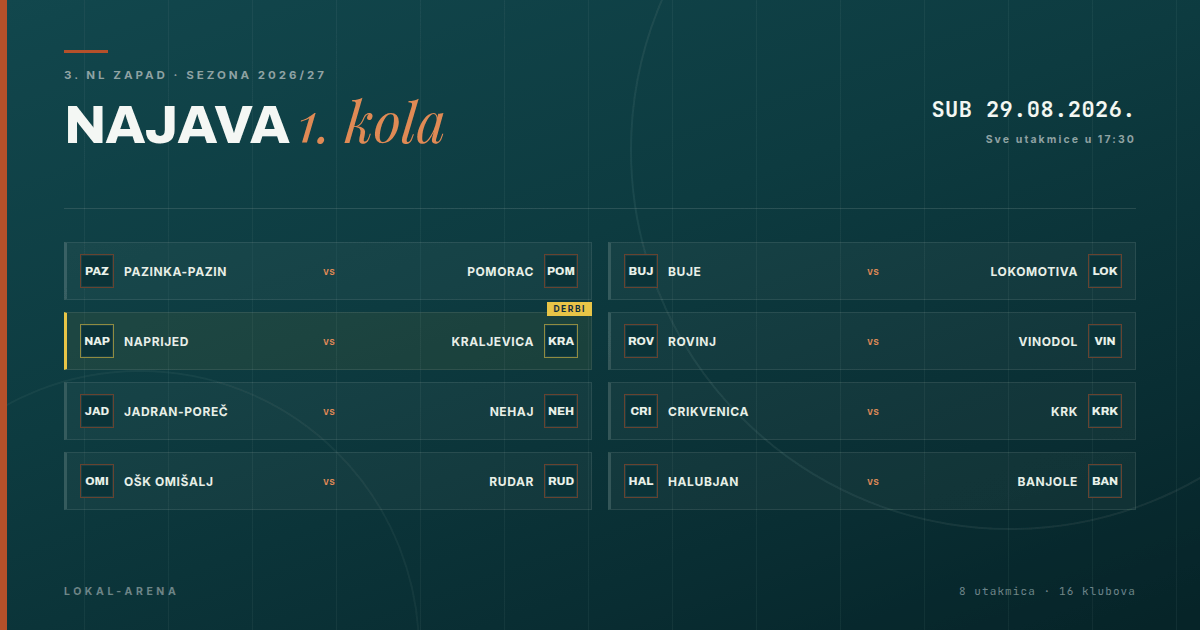
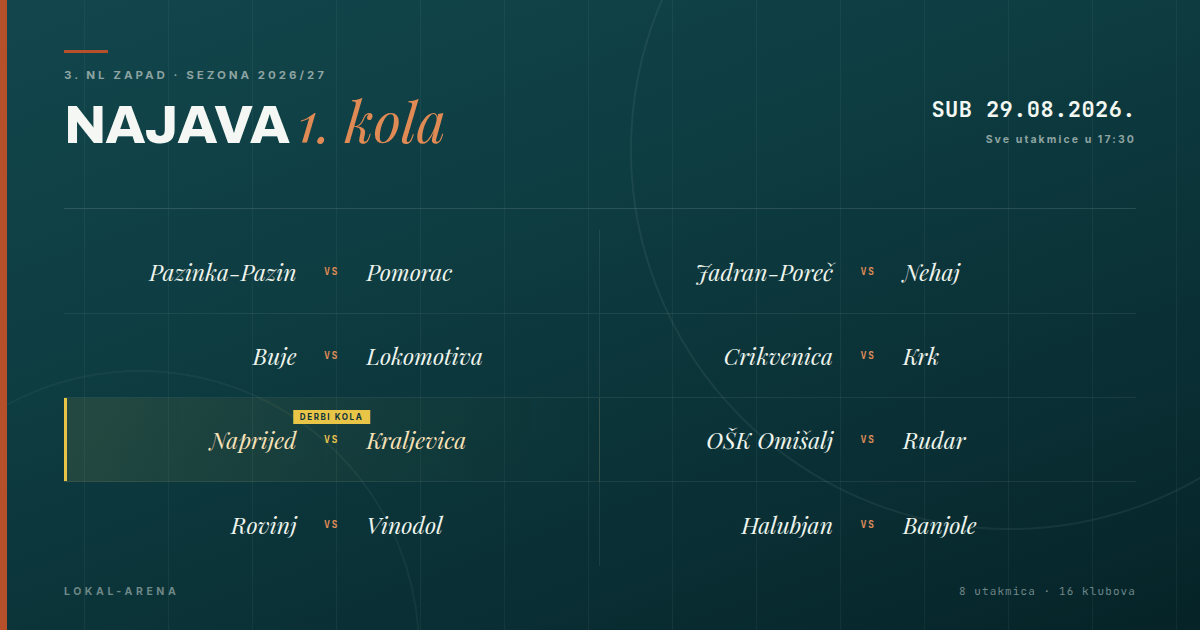
Najave kola: parovi bez kratica, imena u Playfair kurzivu
Odabran je stil "ploca". Pločice s troslovnim kraticama klubova su
maknute jer nisu zamjena za grbove; ostaju samo imena, u istom kurzivu
kojim je pisano "1. kola" u naslovu. Parovi idu u dva stupca, pa tekst
popunjava plohu umjesto da se skuplja oko sredine.

Slike stila "horizont" maknute su iz public; stil ostaje u predlošku.

Claude-Session: https://claude.ai/code/session_018eeFd9VAv5HqjwGQjY2MVf

diff --git a/alati/najave/najava.html b/alati/najave/najava.html
@@ -44,23 +44,25 @@ html,body{width:1200px;height:630px;overflow:hidden;background:#04191d}
 .termin .sat{font-family:IN;font-weight:700;font-size:10.5px;letter-spacing:.2em;color:#8ea2a3;margin-top:9px}
 .crtaH{position:absolute;left:64px;right:64px;top:208px;height:1px;background:rgba(221,226,219,.14);z-index:5}
 
-.mreza{position:absolute;left:64px;right:64px;top:242px;display:grid;grid-template-columns:1fr 1fr;
-  gap:12px 16px;z-index:5}
-.par{position:relative;display:flex;align-items:center;gap:10px;padding:11px 13px;
-  background:rgba(221,226,219,.045);border:1px solid rgba(221,226,219,.10);
-  border-left:3px solid rgba(221,226,219,.16)}
-.par.derbi{border-left-color:var(--zut);background:rgba(232,197,71,.07)}
-.grb{flex:0 0 auto;width:34px;height:34px;display:flex;align-items:center;justify-content:center;
-  font-family:AR;font-weight:800;font-size:11.5px;color:#eaf1ea;
-  background:#0b3338;border:1px solid rgba(181,80,42,.55);box-shadow:inset 0 0 0 1px rgba(221,226,219,.07)}
-.par.derbi .grb{border-color:rgba(232,197,71,.6)}
-.ime{font-family:IN;font-weight:700;font-size:12px;letter-spacing:.05em;text-transform:uppercase;
-  color:#e7eee7;white-space:nowrap;overflow:hidden;text-overflow:ellipsis}
-.ime.d{flex:1;text-align:left}
-.ime.g{flex:1;text-align:right}
-.vs{font-family:JB;font-weight:700;font-size:10px;color:var(--oxide-l);flex:0 0 auto}
-.znak{position:absolute;right:-1px;top:-11px;font-family:IN;font-weight:700;font-size:8.5px;
-  letter-spacing:.18em;padding:2px 6px;background:var(--zut);color:#0b3338}
+.popis{position:absolute;left:64px;right:64px;top:230px;height:336px;display:grid;
+  grid-template-rows:repeat(4,1fr);grid-auto-flow:column;grid-auto-columns:1fr;z-index:5}
+.par{position:relative;display:flex;align-items:center;padding:0 14px;
+  border-bottom:1px solid rgba(221,226,219,.09)}
+.par:nth-child(4){border-bottom:0}
+.par:last-child{border-bottom:0}
+.par:nth-child(-n+4){border-right:1px solid rgba(221,226,219,.09)}
+.par.derbi{background:linear-gradient(90deg,rgba(232,197,71,.10) 0%,rgba(232,197,71,.03) 60%,transparent 100%);
+  box-shadow:inset 3px 0 0 var(--zut)}
+.ime{font-family:PD;font-weight:400;font-style:italic;font-size:23px;line-height:1;
+  color:#eef3ec;white-space:nowrap}
+.ime.d{flex:1;text-align:right;padding-right:18px}
+.ime.g{flex:1;text-align:left;padding-left:18px}
+.par.derbi .ime{color:#f7e5b4}
+.vs{flex:0 0 34px;text-align:center;font-family:JB;font-weight:700;font-size:10px;
+  letter-spacing:.14em;text-transform:uppercase;color:var(--oxide-l)}
+.par.derbi .vs{color:var(--zut)}
+.znak{position:absolute;left:50%;transform:translateX(-50%);top:12px;font-family:IN;font-weight:700;
+  font-size:8px;letter-spacing:.2em;padding:2px 7px;background:var(--zut);color:#0b3338}
 
 /* ============================ B. HORIZONT KOLA ============================ */
 .horizont{background:linear-gradient(180deg,#184b50 0%,#124046 34%,#0b3035 58%,#072429 76%,#04191d 100%)}
@@ -115,12 +117,10 @@ const esc = (s) => String(s).replace(/&/g,'&amp;').replace(/</g,'&lt;');
 function ploca(k){
   const parovi = k.utakmice.map(u => `
     <div class="par${u.derbi ? ' derbi' : ''}">
-      ${u.derbi ? '<span class="znak">DERBI</span>' : ''}
-      <span class="grb">${esc(u.dk)}</span>
       <span class="ime d">${esc(u.d)}</span>
       <span class="vs">vs</span>
       <span class="ime g">${esc(u.g)}</span>
-      <span class="grb">${esc(u.gk)}</span>
+      ${u.derbi ? '<span class="znak">DERBI KOLA</span>' : ''}
     </div>`).join('');
   return `
   <div class="ploca" style="position:absolute;inset:0">
@@ -137,7 +137,7 @@ function ploca(k){
       </div>
     </div>
     <div class="crtaH"></div>
-    <div class="mreza">${parovi}</div>
+    <div class="popis">${parovi}</div>
     <div class="potpis">LOKAL-ARENA</div>
     <div class="brojka">${k.utakmice.length} utakmica &middot; ${k.utakmice.length * 2} klubova</div>
     <div class="rub"></div>

diff --git a/alati/najave/PROCITAJ.md b/alati/najave/PROCITAJ.md
@@ -4,19 +4,19 @@ Predložak kojim se rade naslovne slike za članke "NAJAVA n. KOLA".
 Gotove slike stoje u `public/slike/najave/`, a u članak se stavljaju
 upisom putanje u polje `slika_url` tablice `clanci`.
 
-Dva stila, isti podaci:
+U upotrebi je stil **ploca**: tamna ploča s rasporedom cijelog kola u
+dva stupca, imena klubova u Playfair kurzivu, derbi kola označen žutom.
 
-- **ploca** — tamna ploča s rasporedom cijelog kola, svi parovi u mreži,
-  derbi kola označen žutom. Informativna, čita se kao semafor.
-- **horizont** — kvarnerski obzor (isti krajolik kao zaglavlja liga),
-  a uz donji rub niz pločica sa svim klubovima kola. Atmosferska.
+U predlošku stoji i drugi stil, **horizont** (kvarnerski obzor kao na
+zaglavljima liga). Ne koristi se, ali je ostavljen ako zatreba: dopuni
+popis `stilovi` u `generiraj.mjs`.
 
 ## Grbovi klubova
 
 Pravi klupski grbovi se NE koriste. Nisu dio dopuštenja koje je HNS dao
-za prikaz podataka, a i sami su tuđi znakovi. Umjesto njih se crtaju
-pločice s troslovnom kraticom kluba, u bojama stranice. Ako klub sam
-pošalje svoj grb i dopusti korištenje, to se rješava zasebno.
+za prikaz podataka, a i sami su tuđi znakovi. Ako klub sam pošalje svoj
+grb i dopusti korištenje, to se rješava zasebno. Do tada u slici stoje
+samo imena klubova.
 
 ## Kako pokrenuti
 
